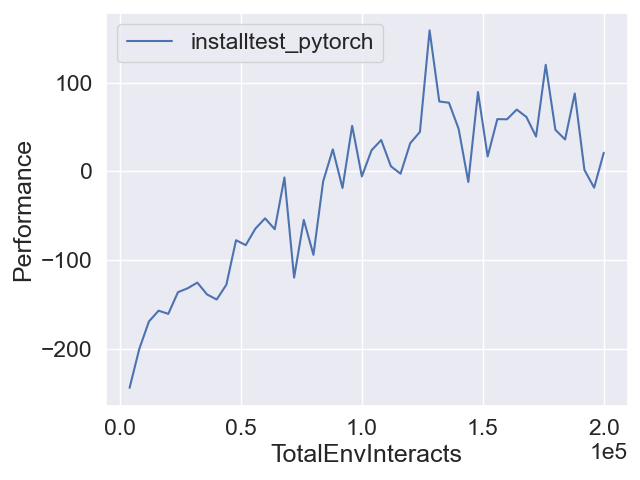
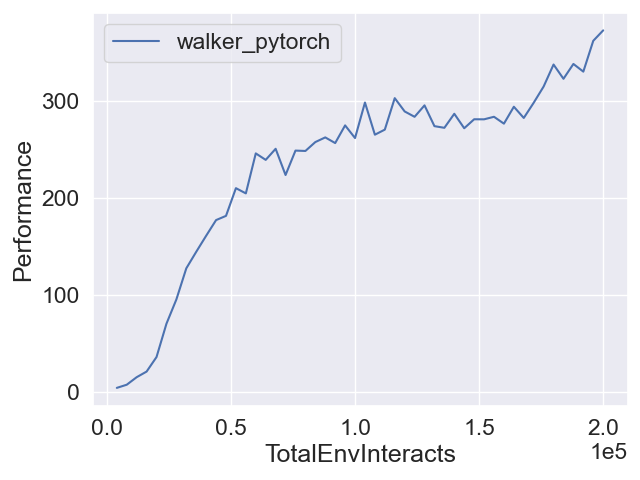
updated readme file with more examples

diff --git a/readme.md b/readme.md
@@ -61,10 +61,50 @@ You should see training logs and results in `./data/installtest_pytorch/`
 ---
 
 ### 6. Run a PPO Agent Walker
+This will tell gymnasium to use the modern mujoco engine and load the correct environment.
+
 ```bash
 python -m spinup.run ppo --env Walker2d-v4 --exp_name walker_pytorch
 ```
 You should see training logs and results in `./data/walker_pytorch/`
+
+Open this project in Visual Studio and you will notice the following new files in your /data/walker_pytorch/walker_pytorch_s0 folder. Each file serves a specific purpose for analyzing, plotting and re-running your trained agent. The following is a breakdown of what you do with each new file.
+
+## config.json
+What it is: A text file that saves all the hyperparameters and settings for that specific experiment (e.g., environment name, learning rate, network size).
+
+What you can do with it:
+
+Review Settings: Open it to see the exact configuration you used for a particular run.
+
+Reloading: The test_policy.py script automatically uses this file to know which environment to create when you test your trained agent.
+
+## progress.txt
+What it is: This is your primary data file. It's a tab-separated text file that logs all the key performance metrics for each epoch of training, such as AverageEpRet (Average Episode Return), StdEpRet, LossPi, and Entropy.
+
+What you can do with it:
+
+Plot Performance: This file is automatically read by the plot utility to generate your performance graphs.
+```bash
+python -m spinup.run plot path/to/your/experiment/
+```
+Custom Analysis: You can open it with a spreadsheet program like Excel or load it into a Python Pandas DataFrame for more detailed, custom analysis.
+
+## pyt_save/model.pt
+What it is: This is the most important file. It’s the "brain" of your agent. It contains the saved weights and parameters of your trained PyTorch neural network.
+
+What you can do with it:
+
+Watch Your Agent: Use the test_policy utility to load this file and watch your trained agent perform in the environment.
+```bash
+python -m spinup.run test_policy path/to/your/experiment/
+```
+
+## vars.pkl
+What it is: This is a pickle file that saves a snapshot of the training state. In the original TensorFlow version, this was critical for resuming training.
+
+What you can do with it: For your modernized PyTorch workflow, this file is generally not needed. The test_policy script relies on config.json and model.pt to load and run your agent. You can safely focus on the other three files.
+
 
 ---
 
